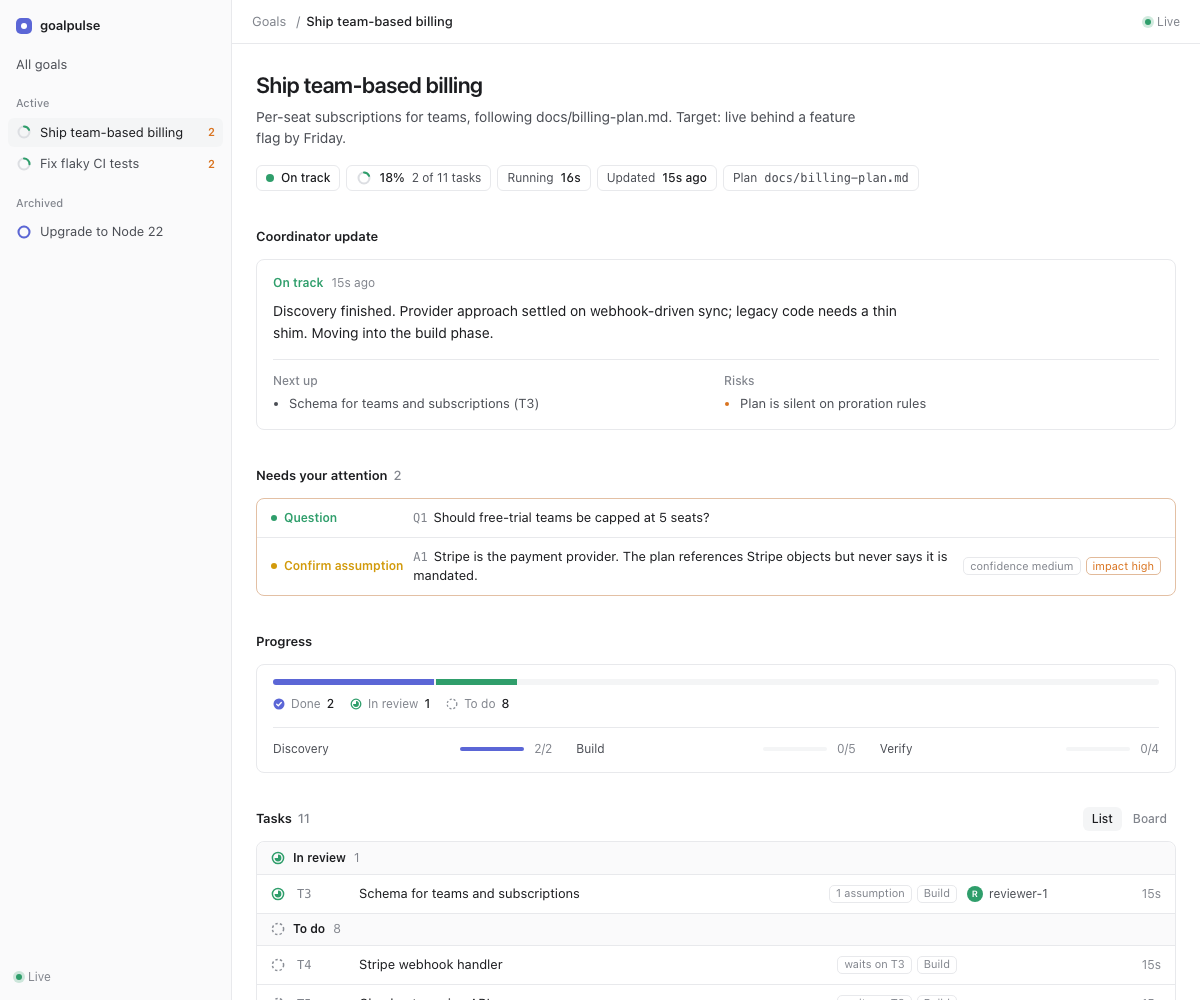
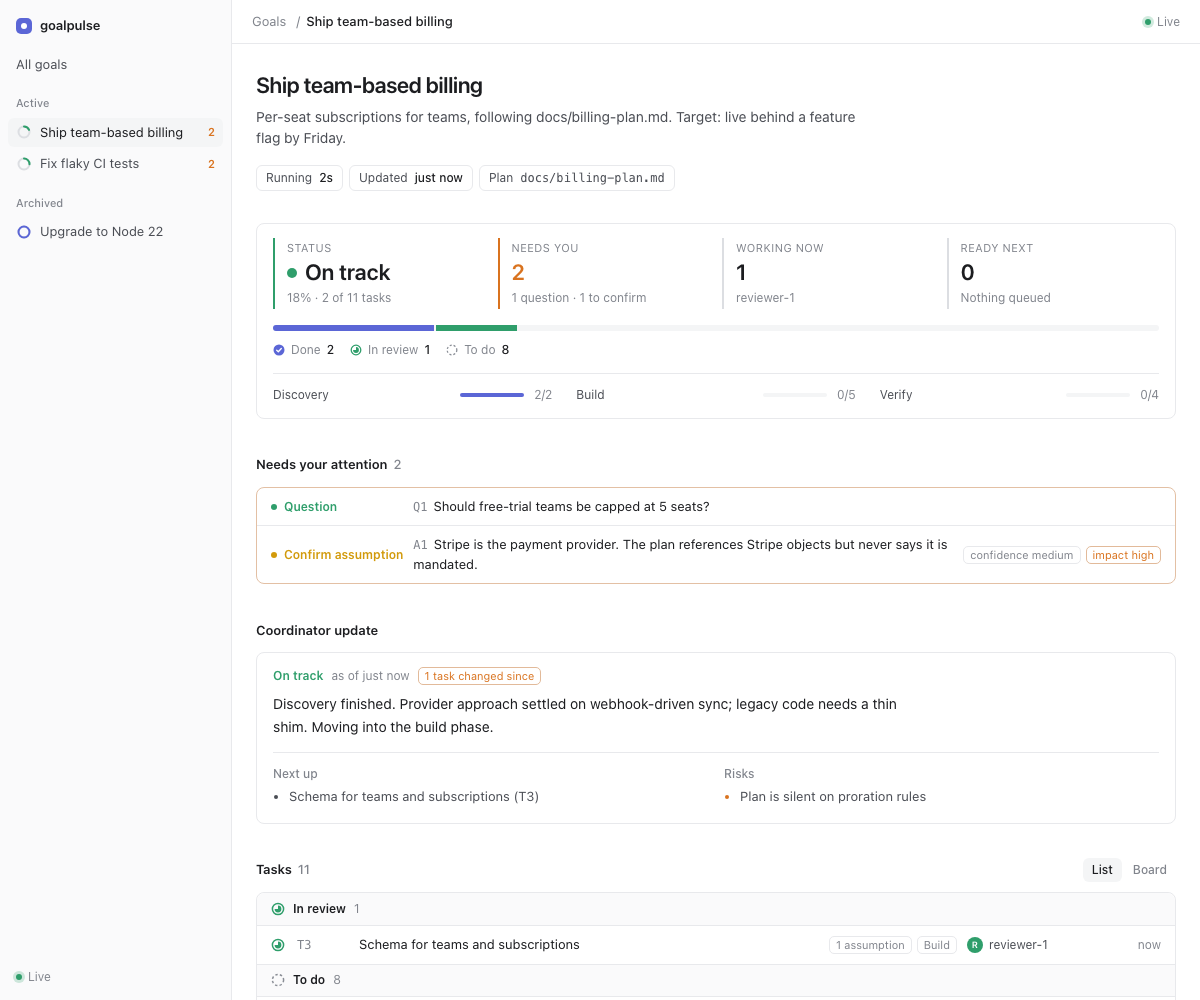
Dashboard: status strip, stale-report cue, in-flight-first task list

diff --git a/dashboard/index.html b/dashboard/index.html
@@ -95,6 +95,15 @@ h2 .n{color:var(--muted);font-weight:500;margin-left:6px}
 .cols2 li{margin:2px 0;color:var(--text2)}
 .cols2 .risks li::marker{color:var(--blocked)}
 
+/* status strip */
+.tiles{display:grid;grid-template-columns:repeat(4,minmax(0,1fr));gap:12px;margin-bottom:16px}
+.tile{padding:2px 0 2px 12px;border-left:2px solid var(--line2);min-width:0}
+.tl{font-size:11px;letter-spacing:.04em;text-transform:uppercase;color:var(--muted)}
+.tb{display:flex;align-items:center;gap:8px;font-size:22px;font-weight:600;line-height:1.3;margin-top:2px}
+.ts{font-size:12px;color:var(--muted);margin-top:2px;overflow:hidden;text-overflow:ellipsis;white-space:nowrap}
+.tile.hot{border-color:var(--blocked)}.tile.hot .tb{color:var(--blocked)}.tile.calm .tb{color:var(--muted)}
+.tile[class*=" h-"]{border-color:var(--c)}
+.dot{width:10px;height:10px;border-radius:50%;background:var(--c)}
 /* progress */
 .prog{padding:14px 16px}
 .stack{display:flex;height:6px;border-radius:3px;overflow:hidden;background:var(--raise);gap:2px}
@@ -217,6 +226,7 @@ h2 .n{color:var(--muted);font-weight:500;margin-left:6px}
   .page{padding:20px 16px 64px}
   .bar-top{padding:0 16px}
   .cols2{grid-template-columns:1fr}
+  .tiles{grid-template-columns:repeat(2,minmax(0,1fr))}
   .tr{grid-template-columns:16px 44px minmax(0,1fr) 48px}
   .tr .chips,.tr .own{display:none}
   .sub-line,.detail{padding-left:70px}
@@ -371,8 +381,6 @@ window.__GP_DATA__ = /*__GP_DATA__*/null;
     return '<h1>' + esc(g ? g.title : 'No goal set yet') + (s.archived ? ' <span class="chip">archived</span>' : '') + '</h1>' +
       (g && g.desc ? '<p class="sub">' + esc(g.desc) + '</p>' : '') +
       '<div class="props">' +
-      '<span class="prop h-' + esc(s.health.value) + '"><span class="ic"><svg width="8" height="8" viewBox="0 0 8 8"><circle cx="4" cy="4" r="4" fill="currentColor"/></svg></span><b>' + esc(HEALTH[s.health.value] || s.health.value) + '</b></span>' +
-      '<span class="prop">' + ring(s.progress.pct, s.health.value) + '<b>' + s.progress.pct + '%</b> ' + s.progress.done + ' of ' + s.progress.total + ' tasks</span>' +
       (s.updatedAt ? '<span class="prop">' + (done ? 'Took ' : 'Running ') + '<b>' + running + '</b>' + esc(resumed) + '</span><span class="prop">Updated <b>' + esc(agoLong(s.updatedAt)) + '</b></span>' : '') +
       (g && g.plan ? '<span class="prop">Plan <span class="mono">' + esc(g.plan) + '</span></span>' : '') + '</div>';
   }
@@ -383,7 +391,9 @@ window.__GP_DATA__ = /*__GP_DATA__*/null;
     if (!r) {
       body = '<div class="update muted">No update yet. The coordinator posts one after each wave of work.</div>';
     } else {
-      body = '<div class="update"><div class="up-hd h-' + esc(s.health.value) + '"><b>' + esc(HEALTH[s.health.value] || s.health.value) + '</b><span>' + esc(agoLong(r.ts)) + (r.by ? ' by ' + esc(r.by) : '') + '</span></div>' +
+      var behind = s.tasks.filter(function (t) { return new Date(t.updatedAt) > new Date(r.ts); }).length;
+      body = '<div class="update"><div class="up-hd h-' + esc(s.health.value) + '"><b>' + esc(HEALTH[s.health.value] || s.health.value) + '</b><span>as of ' + esc(agoLong(r.ts)) + (r.by ? ' by ' + esc(r.by) : '') + '</span>' +
+        (behind ? '<span class="chip warn" title="Tasks changed after this update was written">' + behind + ' task' + (behind > 1 ? 's' : '') + ' changed since</span>' : '') + '</div>' +
         '<p class="summary">' + esc(r.summary) + '</p>' +
         ((r.next && r.next.length) || (r.risks && r.risks.length) ? '<div class="cols2">' +
           '<div>' + (r.next && r.next.length ? '<h3>Next up</h3><ul>' + r.next.map(function (x) { return '<li>' + esc(x) + '</li>'; }).join('') + '</ul>' : '') + '</div>' +
@@ -393,17 +403,34 @@ window.__GP_DATA__ = /*__GP_DATA__*/null;
     return '<section class="sec"><div class="sec-hd"><h2>Coordinator update</h2></div><div class="box">' + body + '</div></section>';
   }
 
-  function progressSection(s) {
-    var p = s.progress, c = s.counts;
+  function tile(label, big, sub, cls) {
+    return '<div class="tile ' + (cls || '') + '"><div class="tl">' + label + '</div><div class="tb">' + big + '</div><div class="ts">' + sub + '</div></div>';
+  }
+
+  // The glance: health, what needs the human, what is running, what is next, then the bar.
+  function statusSection(s) {
+    var p = s.progress, c = s.counts, h = s.health.value;
+    var att = s.attention, kinds = {};
+    att.forEach(function (a) { kinds[a.kind] = (kinds[a.kind] || 0) + 1; });
+    var attSub = att.length ? [['question', 'question'], ['blocked', 'blocked'], ['failed', 'failed'], ['assumption', 'to confirm']].filter(function (k) { return kinds[k[0]]; })
+      .map(function (k) { return kinds[k[0]] + ' ' + k[1] + (k[0] === 'question' && kinds[k[0]] > 1 ? 's' : ''); }).join(' · ') : 'Nothing waiting on you';
+    var running = s.tasks.filter(function (t) { return t.status === 'active' || t.status === 'review'; });
+    var who = {};
+    running.forEach(function (t) { var w = t.status === 'review' ? (t.reviewer || t.owner) : t.owner; if (w) who[w] = 1; });
+    var ready = s.tasks.filter(function (t) { return t.status === 'todo' && t.ready; });
     var legend = ['done', 'review', 'active', 'blocked', 'failed', 'todo'].filter(function (k) { return c[k]; }).map(function (k) {
       return '<span>' + icon(k, 12) + ST[k].label + ' <b>' + c[k] + '</b></span>';
     }).join('');
-    var phases = s.phases && s.phases.length ? '<div class="phases">' + s.phases.map(function (ph) {
+    var phases = s.phases && s.phases.length > 1 ? '<div class="phases">' + s.phases.map(function (ph) {
       return '<div class="phase"><span>' + esc(ph.name) + '</span><div class="mini"><span style="width:' + (ph.total ? 100 * ph.done / ph.total : 0) + '%"></span></div>' +
         '<span class="muted">' + ph.done + '/' + ph.total + '</span></div>';
     }).join('') + '</div>' : '';
-    return '<section class="sec"><div class="sec-hd"><h2>Progress</h2></div><div class="box prog">' +
-      '<div class="stack" role="img" aria-label="' + p.pct + ' percent complete">' + stack(c, p.total, true) + '</div>' +
+    return '<section class="sec"><div class="box prog"><div class="tiles">' +
+      tile('Status', '<span class="dot h-' + esc(h) + '"></span>' + esc(HEALTH[h] || h), p.pct + '% · ' + p.done + ' of ' + p.total + ' tasks', 'h-' + esc(h)) +
+      tile('Needs you', att.length, esc(attSub), att.length ? 'hot' : 'calm') +
+      tile('Working now', running.length, running.length ? esc(Object.keys(who).slice(0, 3).join(', ')) : 'Nothing in flight') +
+      tile('Ready next', ready.length, ready.length ? esc(ready.slice(0, 3).map(function (t) { return t.id; }).join(', ')) : 'Nothing queued') +
+      '</div><div class="stack" role="img" aria-label="' + p.pct + ' percent complete">' + stack(c, p.total, true) + '</div>' +
       '<div class="legend">' + (legend || '<span>No tasks yet</span>') + '</div>' + phases + '</div></section>';
   }
 
@@ -463,8 +490,8 @@ window.__GP_DATA__ = /*__GP_DATA__*/null;
   }
 
   var GROUPS = [
-    { key: 'active', label: 'In progress' }, { key: 'review', label: 'In review' }, { key: 'blocked', label: 'Blocked' },
-    { key: 'failed', label: 'Failed' }, { key: 'todo', label: 'To do' }, { key: 'done', label: 'Done' }, { key: 'dropped', label: 'Dropped' }
+    { key: 'blocked', label: 'Blocked' }, { key: 'failed', label: 'Failed' },
+    { key: 'active', label: 'In progress' }, { key: 'review', label: 'In review' }, { key: 'todo', label: 'To do' }, { key: 'done', label: 'Done' }, { key: 'dropped', label: 'Dropped' }
   ];
   function byRecent(a, b) { return new Date(b.updatedAt) - new Date(a.updatedAt); }
 
@@ -475,10 +502,10 @@ window.__GP_DATA__ = /*__GP_DATA__*/null;
       if (!list.length) return;
       list.sort(g.key === 'todo' ? function (a, b) { return (b.ready ? 1 : 0) - (a.ready ? 1 : 0); } : byRecent);
       var collapsed = (g.key === 'done' || g.key === 'dropped') && !ui.more[g.key];
-      var shown = collapsed ? list.slice(0, 5) : list;
+      var shown = collapsed ? [] : list;
       out += '<div class="grp s-' + g.key + '">' + icon(g.key) + '<b>' + g.label + '</b><span class="n">' + list.length + '</span></div>' +
         shown.map(function (t) { return taskRow(t, s, flashIds); }).join('') +
-        (list.length > shown.length ? '<button class="more" data-act="more" data-v="' + g.key + '">Show all ' + list.length + '</button>' : '');
+        (list.length > shown.length ? '<button class="more" data-act="more" data-v="' + g.key + '">Show ' + list.length + ' ' + g.label.toLowerCase() + '</button>' : '');
     });
     return '<div class="box" style="overflow:hidden">' + out + '</div>';
   }
@@ -671,10 +698,10 @@ window.__GP_DATA__ = /*__GP_DATA__*/null;
 
     var empty = !state.goal && !state.tasks.length;
     var inner = header(state) + (empty ? '<section class="sec">' + onboarding() + '</section>' :
-      reportSection(state) + attention(state) + progressSection(state) + tasksSection(state, flashIds) + assumptionsSection(state) + activitySection(state) +
+      statusSection(state) + attention(state) + reportSection(state) + tasksSection(state, flashIds) + assumptionsSection(state) + activitySection(state) +
       '<div class="foot">' + state.rev + ' events' + (conn === 'snapshot' ? '. Static snapshot: run <span class="mono">goalpulse dashboard</span> for live updates.' : '') + '</div>');
     app.innerHTML = shell(goals, state, state.goal ? state.goal.title : state.slug, inner, multi);
-    document.title = (state.progress.total ? state.progress.pct + '% · ' : '') + (state.goal ? state.goal.title : 'Goal progress');
+    document.title = (state.attention.length ? '(' + state.attention.length + ') ' : '') + (state.progress.total ? state.progress.pct + '% · ' : '') + (state.goal ? state.goal.title : 'Goal progress');
   }
 
   function jump(target) {

diff --git a/lib/reduce.js b/lib/reduce.js
@@ -290,7 +290,7 @@ function reduce(events, opts = {}) {
     })),
   ];
 
-  // Health: the coordinator's stated health wins, except that a finished goal is complete.
+  // Health: the coordinator's stated health wins, except that a finished goal is complete and live blocked work overrides a stale on-track.
   const derived = !total
     ? 'planning'
     : counts.done === total
@@ -299,7 +299,7 @@ function reduce(events, opts = {}) {
         ? 'at-risk'
         : 'on-track';
   const reported = s.report && s.report.health;
-  s.health = { value: derived === 'complete' ? 'complete' : reported || derived, derived, reported: reported || null };
+  s.health = { value: derived === 'complete' ? 'complete' : reported === 'on-track' && derived === 'at-risk' ? 'at-risk' : reported || derived, derived, reported: reported || null };
 
   return s;
 }
